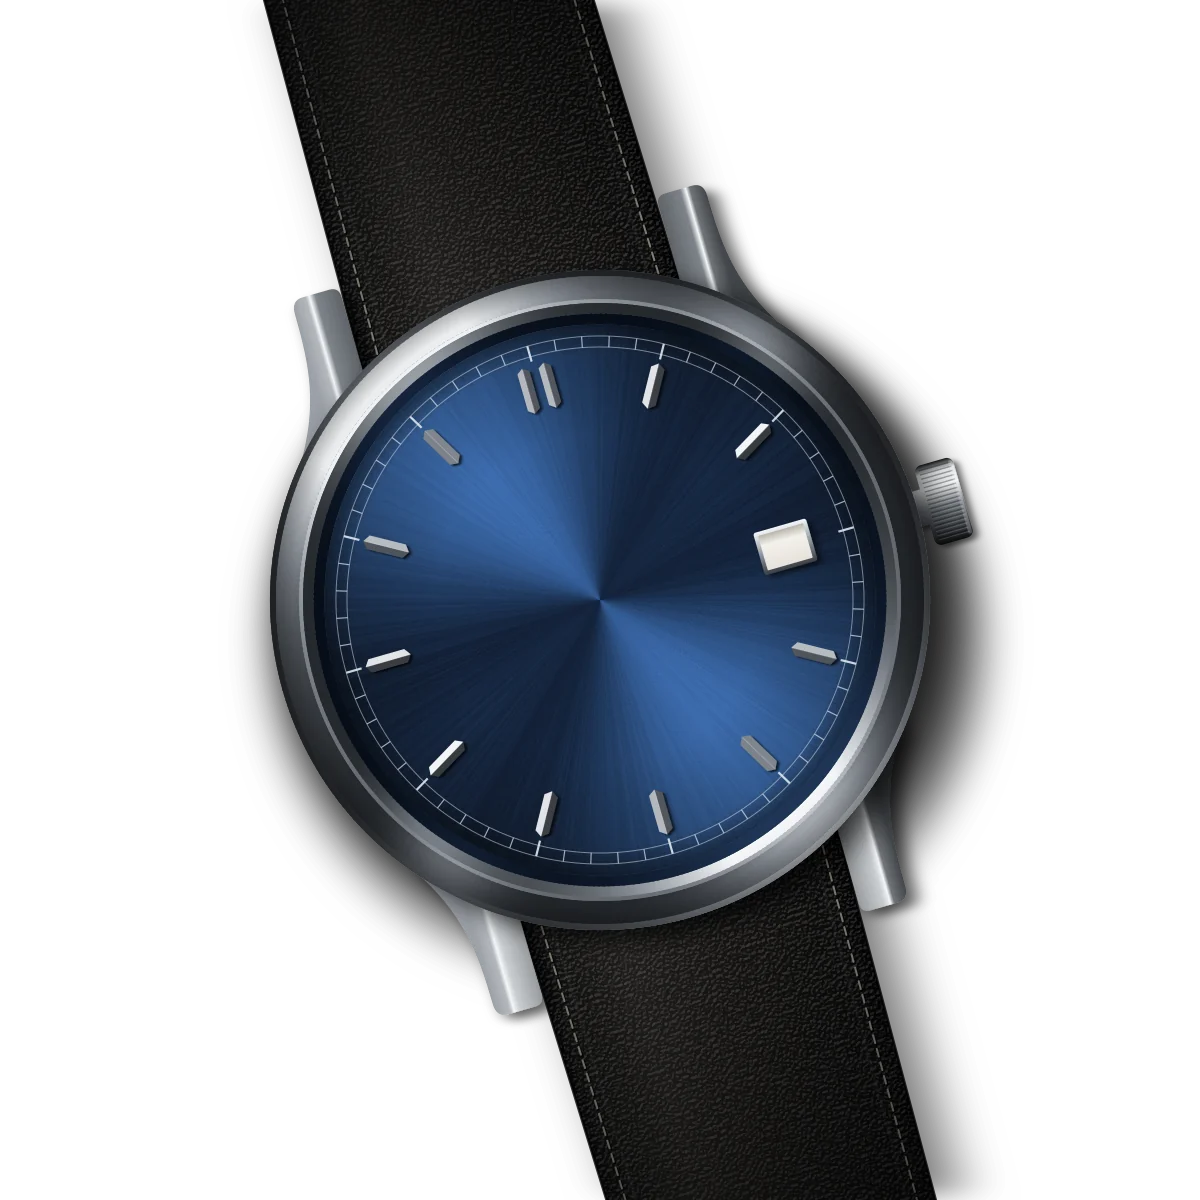
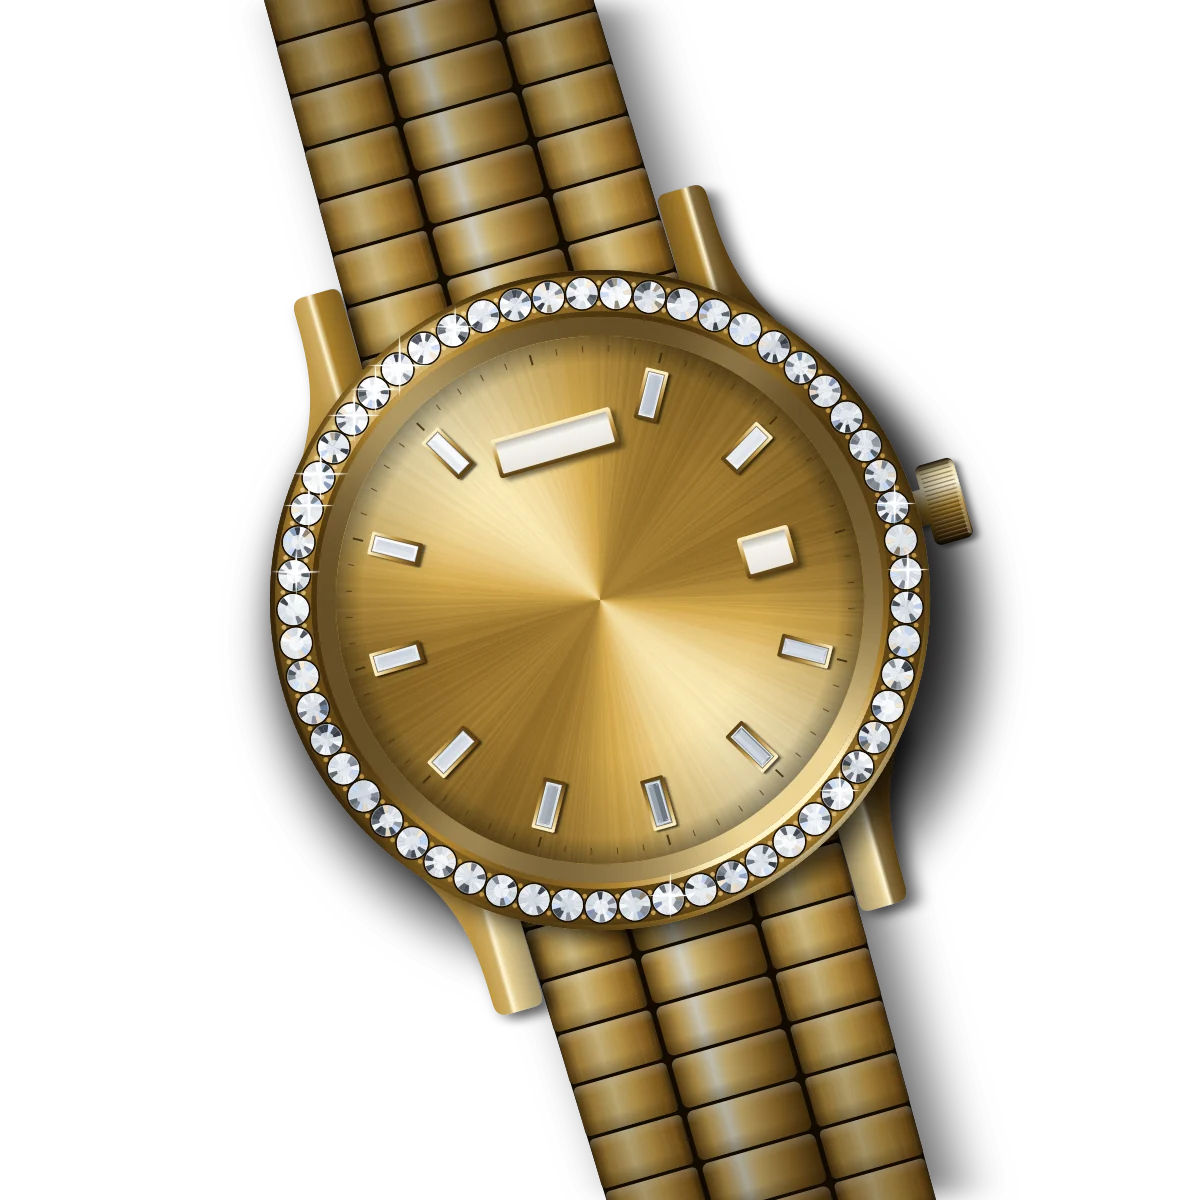
Gold gem-set day-date hero watch
The hero watch is now a yellow-gold dress watch with a bezel set with
round diamonds, a champagne sunburst dial, baguette diamond indices, a
day window at 12, a date window at 3 and a three-row gold link
bracelet. It carries no brand names, logos or dial text.

js/home.js now also fills the day window with today's weekday in
Bangladesh, next to the live time and date.

diff --git a/index.html b/index.html
@@ -73,28 +73,31 @@
     <section class="hero" aria-labelledby="hero-title">
       <div class="hero__media">
         <!-- hero-watch:start -->
-<svg xmlns="http://www.w3.org/2000/svg" viewBox="0 0 1200 1200" width="1200" height="1200" class="hero__watch" role="img" aria-label="Watch showing the current time and date in Bangladesh">
+<svg xmlns="http://www.w3.org/2000/svg" viewBox="0 0 1200 1200" width="1200" height="1200" class="hero__watch" role="img" aria-label="Gold watch showing the current time, day and date in Bangladesh">
 <defs>
-<radialGradient id="hw-halo" cx="0.5" cy="0.5" r="0.5"><stop offset="0" stop-color="#c9a961" stop-opacity="0.26"/><stop offset="1" stop-color="#c9a961" stop-opacity="0"/></radialGradient>
-<linearGradient id="hw-handL" x1="0" y1="0" x2="0" y2="1"><stop offset="0" stop-color="#ffffff"/><stop offset="1" stop-color="#b9c0c8"/></linearGradient>
-<linearGradient id="hw-handD" x1="0" y1="0" x2="0" y2="1"><stop offset="0" stop-color="#7d848d"/><stop offset="1" stop-color="#3c4148"/></linearGradient>
-<radialGradient id="hw-cap" cx="0.35" cy="0.3" r="0.8"><stop offset="0" stop-color="#ffffff"/><stop offset="0.5" stop-color="#a7aeb6"/><stop offset="1" stop-color="#3a3f45"/></radialGradient>
+<radialGradient id="hw-halo" cx="0.5" cy="0.5" r="0.5"><stop offset="0" stop-color="#c9a961" stop-opacity="0.3"/><stop offset="1" stop-color="#c9a961" stop-opacity="0"/></radialGradient>
+<linearGradient id="hw-handL" x1="0" y1="0" x2="0" y2="1"><stop offset="0" stop-color="#fff6d6"/><stop offset="1" stop-color="#d2a654"/></linearGradient>
+<linearGradient id="hw-handD" x1="0" y1="0" x2="0" y2="1"><stop offset="0" stop-color="#a87a2a"/><stop offset="1" stop-color="#5a3c10"/></linearGradient>
+<radialGradient id="hw-cap" cx="0.35" cy="0.3" r="0.8"><stop offset="0" stop-color="#fff6d6"/><stop offset="0.5" stop-color="#c49a45"/><stop offset="1" stop-color="#4a3210"/></radialGradient>
 <linearGradient id="hw-glare" x1="0" y1="0" x2="0" y2="1"><stop offset="0" stop-color="#fff" stop-opacity="0.16"/><stop offset="1" stop-color="#fff" stop-opacity="0"/></linearGradient>
 <linearGradient id="hw-rim" x1="0" y1="0" x2="1" y2="1"><stop offset="0" stop-color="#fff" stop-opacity="0.4"/><stop offset="0.32" stop-color="#fff" stop-opacity="0"/><stop offset="0.8" stop-color="#fff" stop-opacity="0"/><stop offset="1" stop-color="#fff" stop-opacity="0.12"/></linearGradient>
-<filter id="hw-handShadow" x="-20%" y="-20%" width="140%" height="140%"><feDropShadow dx="4" dy="7" stdDeviation="3.5" flood-color="#000" flood-opacity="0.5"/></filter>
-<clipPath id="hw-crystal"><circle cx="600" cy="600" r="287.1"/></clipPath>
+<filter id="hw-handShadow" x="-20%" y="-20%" width="140%" height="140%"><feDropShadow dx="4" dy="7" stdDeviation="3.5" flood-color="#000" flood-opacity="0.45"/></filter>
+<clipPath id="hw-crystal"><circle cx="600" cy="600" r="288.75"/></clipPath>
 </defs>
 <circle cx="600" cy="600" r="560" fill="url(#hw-halo)"/>
 <image href="images/hero-watch.webp" x="0" y="0" width="1200" height="1200"/>
-<g transform="rotate(-16 600 600)"><text id="hw-date" x="792.89" y="601" font-family="Helvetica, Arial, sans-serif" font-weight="700" font-size="26.18" fill="#1b1b1b" text-anchor="middle" dominant-baseline="central">20</text></g>
+<g transform="rotate(-16 600 600)" font-family="Helvetica, Arial, sans-serif" font-weight="700" fill="#1b1b1b" text-anchor="middle" dominant-baseline="central">
+<text id="hw-day" x="600" y="437.32" font-size="18.48" letter-spacing="1.5">FRIDAY</text>
+<text id="hw-date" x="774.24" y="601" font-size="25.08">20</text>
+</g>
 <g filter="url(#hw-handShadow)"><g transform="rotate(-16 600 600)">
-<g id="hw-hour" transform="translate(600 600) rotate(304.5)"><path d="M0,16.97 L-12.12,-26.23 L0,-154.31 Z" fill="url(#hw-handL)"/><path d="M0,16.97 L12.12,-26.23 L0,-154.31 Z" fill="url(#hw-handD)"/></g>
-<g id="hw-minute" transform="translate(600 600) rotate(57.6)"><path d="M0,12.73 L-9.09,-40.29 L0,-236.97 Z" fill="url(#hw-handL)"/><path d="M0,12.73 L9.09,-40.29 L0,-236.97 Z" fill="url(#hw-handD)"/></g>
-<g id="hw-second" transform="translate(600 600) rotate(216)"><rect x="-1.2" y="-253.51" width="2.4" height="314.13" rx="1.2" fill="#e3e7eb"/><circle cx="0" cy="44.09" r="8.82" fill="#c9ced4"/></g>
-<circle cx="600" cy="600" r="13.78" fill="url(#hw-cap)"/><circle cx="600" cy="600" r="4.41" fill="#2a2e33"/>
+<g id="hw-hour" transform="translate(600 600) rotate(304.5)"><path d="M0,17.42 L-7.92,17.42 L-7.92,-133.06 L0,-147.84 Z" fill="url(#hw-handL)"/><path d="M0,17.42 L7.92,17.42 L7.92,-133.06 L0,-147.84 Z" fill="url(#hw-handD)"/></g>
+<g id="hw-minute" transform="translate(600 600) rotate(57.6)"><path d="M0,13.94 L-6.34,13.94 L-6.34,-206.71 L0,-229.68 Z" fill="url(#hw-handL)"/><path d="M0,13.94 L6.34,13.94 L6.34,-206.71 L0,-229.68 Z" fill="url(#hw-handD)"/></g>
+<g id="hw-second" transform="translate(600 600) rotate(216)"><rect x="-1.2" y="-245.52" width="2.4" height="303.6" rx="1.2" fill="#e2bd6c"/><circle cx="0" cy="42.24" r="7.92" fill="#c9a050"/></g>
+<circle cx="600" cy="600" r="13.2" fill="url(#hw-cap)"/><circle cx="600" cy="600" r="4.22" fill="#3a2808"/>
 </g></g>
 <g clip-path="url(#hw-crystal)"><ellipse cx="494.4" cy="435" rx="313.5" ry="158.4" transform="rotate(-32 494.4 435)" fill="url(#hw-glare)"/></g>
-<circle cx="600" cy="600" r="284.1" fill="none" stroke="url(#hw-rim)" stroke-width="5"/>
+<circle cx="600" cy="600" r="285.75" fill="none" stroke="url(#hw-rim)" stroke-width="5"/>
 </svg>
         <!-- hero-watch:end -->
       </div>

diff --git a/js/home.js b/js/home.js
@@ -4,12 +4,14 @@
 (() => {
   const { el } = ZW;
 
-  /* ---------- Hero watch: live Bangladesh time and date ----------
+  /* ---------- Hero watch: live Bangladesh time, day and date ----------
    * Bangladesh Standard Time is UTC+6 all year (no daylight saving), so the time is worked out
    * from UTC directly and does not depend on the visitor's own time zone. The second hand sweeps
    * smoothly; with "reduce motion" switched on it ticks once a second instead. */
   const watchHands = ['hour', 'minute', 'second'].map((k) => document.getElementById(`hw-${k}`));
   const watchDate = document.getElementById('hw-date');
+  const watchDay = document.getElementById('hw-day');
+  const DAYS = ['SUNDAY', 'MONDAY', 'TUESDAY', 'WEDNESDAY', 'THURSDAY', 'FRIDAY', 'SATURDAY'];
   if (watchHands.every(Boolean)) {
     const BST_OFFSET_MS = 6 * 60 * 60 * 1000;
     // Keep each hand's translate(...) and replace only its rotate(...)
@@ -24,9 +26,11 @@
       [hour * 30, min * 6, sec * 6].forEach((deg, i) => {
         watchHands[i].setAttribute('transform', `${bases[i]} rotate(${deg.toFixed(2)})`);
       });
-      // Date window: today's day of the month in Bangladesh
+      // Day and date windows: today's weekday and day of the month in Bangladesh
       const day = String(t.getUTCDate());
       if (watchDate && watchDate.textContent !== day) watchDate.textContent = day;
+      const weekday = DAYS[t.getUTCDay()];
+      if (watchDay && watchDay.textContent !== weekday) watchDay.textContent = weekday;
     };
 
     // Smooth sweep only while the hero is on screen; otherwise once a second is plenty.
